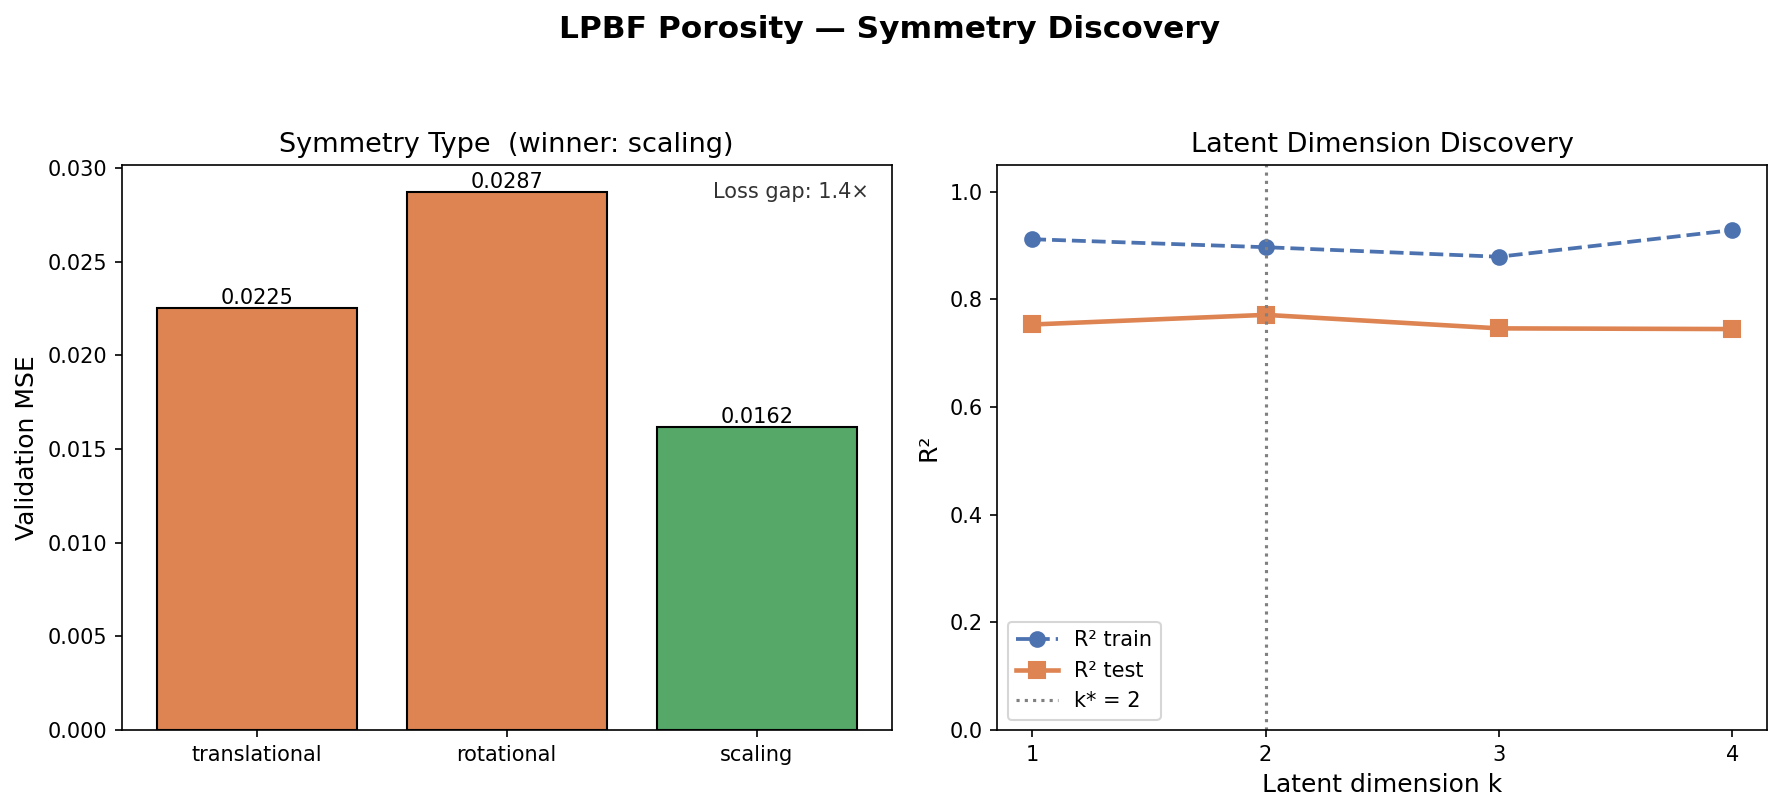
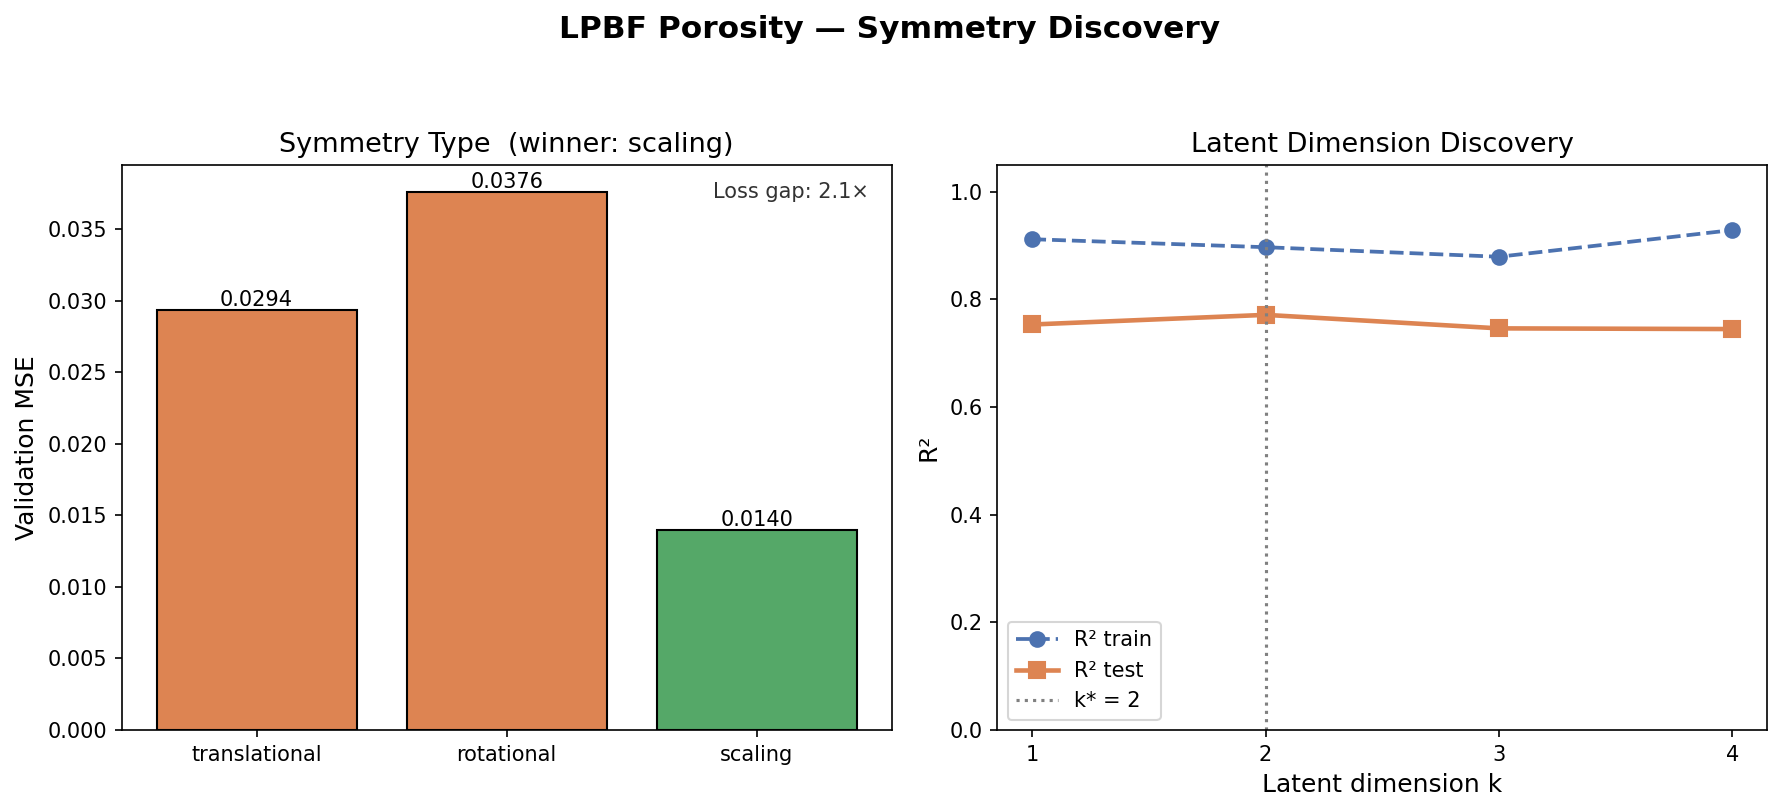
LPBF: re-run on supplied xlsx dataset; refresh logs, figures, README
- Add lpbf_porosity_dataset.xlsx (sheet "pore fraction") as the
  canonical data source. 236 raw rows -> 232 usable after dropping
  NaN-Pore entries.
- Rebuild dataset_lpbf.csv from the xlsx: sample IDs Al20XX/Al60XX/
  Cu/Ti/ss304 mapped to the 5 canonical alloys; per-alloy
  (A, rho, k, Lv, dT) joined in; V converted mm/s -> m/s. Row content
  matches the previously committed CSV under canonical sort.
- Re-run the pipeline end-to-end; capture run.log and refresh all four
  output figures (symmetry/latent, Pi candidates, 3D surface).
- Update README numbers to match this run: scaling MSE 0.0140 vs
  translational 0.0294 vs rotational 0.0376 (2.1x loss gap, was 1.2x),
  new L2-normalised encoder weight rows, and revised physical readings
  for the 7 scaling generators. Add a "Source" row to the dataset
  table pointing at the xlsx.

diff --git a/projects/20260912_Stage1_Prokash/Examples/lpbf_porosity_symmetry/README.md b/projects/20260912_Stage1_Prokash/Examples/lpbf_porosity_symmetry/README.md
@@ -60,6 +60,7 @@ keyhole from the conduction regime (as in the companion notebook).
 | Raw columns | `P`, `V`, `A`, `rho`, `k`, `Lv`, `dT`, `Pi` (reference), `Pore` |
 | Output | `Pore` — pore fraction in [0, 1] |
 | `Pi` column | Pre-computed reference only; **not used as model input** |
+| Source | Built from `lpbf_porosity_dataset.xlsx` (sheet `pore fraction`); sample IDs `Al20XX`/`Al60XX`/`Cu`/`Ti`/`ss304` mapped to the five canonical alloys, with per-alloy `(A, ρ, k, L_v, ΔT, γ, T_b)` joined in at load time |
 
 ---
 
@@ -173,14 +174,14 @@ rotational.
 **Actual results:**
 
 ```
-scaling        : 0.019152  ← winner
-translational  : 0.022629
-rotational     : 0.030542
-Loss gap: 1.2×
+scaling        : 0.013958  ← winner
+translational  : 0.029352
+rotational     : 0.037601
+Loss gap: 2.1×
 ```
 
 **Scaling wins**, confirming the power-law dimensional structure of LPBF
-porosity. The 1.2× gap is smaller than in the keyhole example (6.3×) because:
+porosity. The 2.1× gap is smaller than in the keyhole example (6.3×) because:
 - 5 material-property variables take only 5 discrete values (one per alloy),
   limiting how much scaling information the encoder can extract from them.
 - The two-latent-dimension (`k*=2`) structure makes the encoder less
@@ -199,8 +200,8 @@ is invariant.
 
 ```
          P        V        A      rho        k       Lv       dT    gamma       Tb
-Row 1: -0.340  -0.204  -0.510  +0.152  +0.663  +0.029  +0.057  +0.044  +0.337
-Row 2: +0.696  +0.455  +0.376  +0.130  -0.012  -0.139  +0.354  -0.028  -0.071
+Row 1: -0.181  +0.673  +0.011  -0.129  +0.228  +0.011  +0.163  -0.612  -0.212
+Row 2: +0.785  +0.224  +0.066  -0.033  -0.093  +0.023  -0.383  -0.137  +0.393
 ```
 
 With `k* = 2` there are `9 − 2 = 7` null-space generators.
@@ -214,12 +215,12 @@ With `k* = 2` there are `9 − 2 = 7` null-space generators.
 | Generator | Dominant variable | Trade-off | Physical meaning |
 |---|---|---|---|
 | 1 | A | increase A, decrease P | Absorptivity–power trade-off: more absorptive material needs less laser power |
-| 2 | rho | increase rho, decrease V, decrease k | Dense metal + slower scan + lower conductivity → same melt pool |
-| 3 | V | decrease V, increase P, increase A | P·V trade-off (classic LPBF printability) |
-| 4 | Lv | increase Lv | Near-free: Lv has ≈0 encoder weight (only 5 discrete values) |
-| 5 | dT | increase dT, decrease P/V/rho/k | Superheat trade-off (limited by 5-alloy confounding) |
-| 6 | gamma | gamma free alone | γ appears in only one Pi group; near-zero encoder weight |
-| 7 | Tb | increase Tb, increase P, decrease V | Boiling-temperature trade-off (limited by 5-alloy confounding) |
+| 2 | rho | increase rho, increase V, decrease γ | Dense metal + faster scan + lower surface tension → same melt pool |
+| 3 | k | increase k, increase P, decrease V | Conductive metal needs more laser power and slower scan |
+| 4 | Lv | increase Lv (alone) | Near-free: Lv has ≈0 encoder weight (only 5 discrete values across alloys) |
+| 5 | dT | increase dT, increase P | Superheat trade-off (limited by 5-alloy confounding) |
+| 6 | gamma | increase γ, increase V, decrease P | Surface-tension/scan-speed compensation for laser power |
+| 7 | Tb | increase Tb, decrease P | Boiling-temperature trade-off (limited by 5-alloy confounding) |
 
 **Constrained vs free generators:**
 
@@ -302,7 +303,7 @@ axis is needed to distinguish keyhole porosity from lack-of-fusion porosity.
 | Known Pi in null-space | cos = +1.0000 ✓ |
 | Latent dimension k* | **2** — two coordinates needed for pore fraction |
 | Test R² | **0.771** (vs ~0.446 from raw Pi formula) |
-| Symmetry type | **Scaling** — 1.2× loss gap (weaker than keyhole due to 5-alloy confounding) |
+| Symmetry type | **Scaling** — 2.1× loss gap (weaker than keyhole due to 5-alloy confounding) |
 | Generators | 7 directions (9 variables − 2 latent dimensions) |
 | Constrained generators | A–P, rho–V–k, P–V–A trade-offs (process parameters) |
 | Free generators | Lv, gamma, dT, Tb (material-only, only 5 discrete values) |
